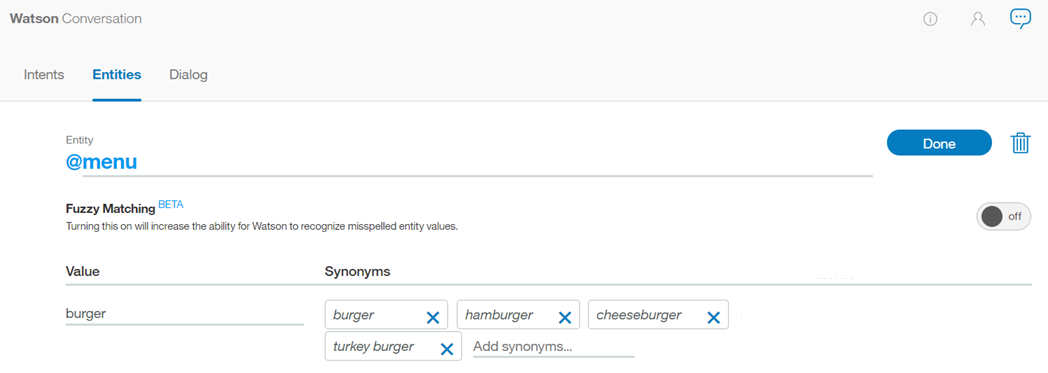
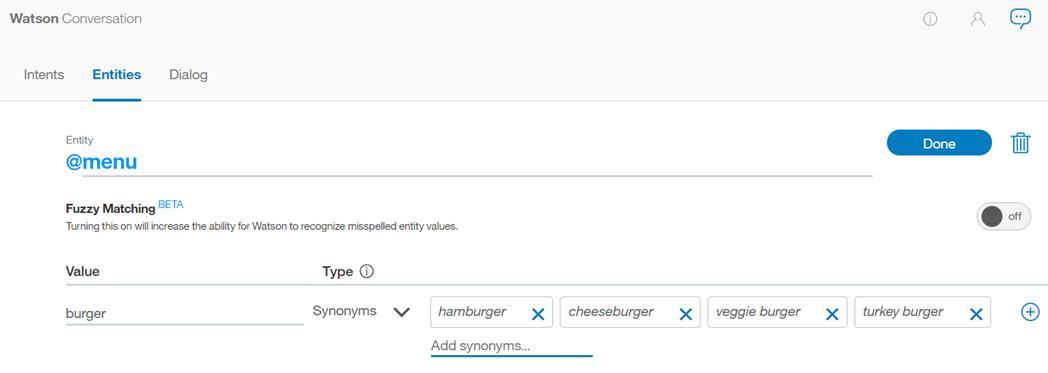
Pattern entities
Pattern entities content, includes condition builder in release notes

diff --git a/entities.md b/entities.md
@@ -2,7 +2,7 @@
 
 copyright:
   years: 2015, 2017
-lastupdated: "2017-07-27"
+lastupdated: "2017-09-22"
 
 ---
 
@@ -64,11 +64,51 @@ Use the {{site.data.keyword.conversationshort}} tool to create entities.
 1.  In the **Value** field, type the text of a possible value for the entity. An entity value can be any string up to 64 characters in length.
 
     > **Important:** Don't include sensitive or personal information in entity names or values. The names and values can be exposed in URLs in an app.
+
+    Once you have entered an entity value, you can then add any synonyms, or define specific patterns, for that entity value by selecting either `Synonyms` or `Patterns` from the *Type* drop-down menu.
+
+    ![Type selector for Value](images/value_type.png)
+
+    > **Note:** You can add *either* synonyms or patterns for a single entity value, you cannot add both.
+
 1.  In the **Synonyms** field, type any synonyms for the entity value. A synonym can be any string up to 64 characters in length.
 
     ![Screen capture of defining an entity](images/define_entity.png)
+1.  The **Patterns** field lets you define specific patterns for an entity value. A pattern **must** be entered as a regular expression in the field.
+  {: #pattern-entities}
+
+    ![Screen capture of defining a pattern entity](images/patternents1.png)
+
+    As in this example, for entity "ContactInfo", the patterns for phone, email, and website values can be defined as follows:
+    - Phone
+      - `localPhone`: `(\d{3})-(\d{4})`, e.g. 426-4968
+      - `fullUSphone`: `(\d{3})-(\d{3})-(\d{4})`, e.g. 800-426-4968
+      - `internationalPhone`: `^(\(?\+?[0-9]*\)?)?[0-9_\- \(\)]*$`, e.g., +44 1962 815000
+    - `email`: `\b[A-Za-z0-9._%+-]+@[A-Za-z0-9.-]+\.[A-Za-z]{2,}\b`, e.g. name@ibm.com
+    - `website`: `(https?:\/\/)?([\da-z\.-]+)\.([a-z\.]{2,6})([\/\w \.-]*)*\/?$`, e.g. https://www.ibm.com
+
+    Often when using pattern entities, it will be necessary to store the text that matches the pattern in a context variable (or action variable), from within your dialog tree.
+
+    Imagine a case where you are asking a user for their email address. The dialog node condition will contain a condition similar to `@contactInfo.email`. In order to assign the user-entered email as a context variable, the following syntax can be used to capture the pattern match within the dialog node's response section:
+
+    ```
+    {
+        "context" : {
+            "email": "@contactInfo.literal"
+        }
+    }
+    ```
+    {: screen}
+
+    The pattern matching engine employed by the {{site.data.keyword.conversationshort}} service has some syntax limitations, which are necessary in order to avoid performance concerns which can occur when using other regular expression engines. Notably, entity patterns may not contain:
+      - Positive repetitions (e.g., `x*+`)
+      - Backreferences (e.g., `\g1`)
+      - Conditional branches (e.g., `(?(cond)true))`
+
+    The regular expression engine is loosely based on the Java regular expression engine. The {{site.data.keyword.conversationshort}} service will produce an error if you try to upload an unsupported pattern, either via the API or from within the {{site.data.keyword.conversationshort}} service Tooling UI.
+
 1.  Click **+** and repeat the process to add more entity values.
-1.  When you are finished adding values and synonyms, click **Done**.
+1.  When you are finished adding entity values, click **Done**.
 
 ### Results
 
@@ -76,11 +116,13 @@ The entity you created is added to the **Entities** tab, and the system begins t
 
 ## Editing entities
 
-You can click any entity in the list to open it for editing. You can rename or delete entities, and you can add, edit, or delete values and synonyms.
+You can click any entity in the list to open it for editing. You can rename or delete entities, and you can add, edit, or delete values, synonyms, or patterns.
 
 ## Importing entities
 
 If you have a large number of entities, you might find it easier to import them from a comma-separated value (CSV) file than to define them one by one in the {{site.data.keyword.conversationshort}} tool.
+
+**Note:** Importing a CSV file does not currently support patterns.
 
 1.  Collect the entities into a CSV file, or export them from a spreadsheet to a CSV file. The required format for each line in the file is as follows:
 
@@ -120,6 +162,8 @@ You can view the imported entities on the Entities tab. You might need to refres
 
 You can export a number of entities to a CSV file, so you can then import and reuse them for another Conversation application.
 
+**Note:** Exporting a CSV file does not currently support patterns.
+
 1.  On the Entities tab, select ![Export icon](images/ExportIcon.png)
 
     ![Export and Delete options](images/ExportEntity1.png)
@@ -133,7 +177,7 @@ You can export a number of entities to a CSV file, so you can then import and re
 
 You can select a number of entities for deletion.
 
-**IMPORTANT**: By deleting entities you are also deleting all associated values, and synonyms, and these items cannot be retrieved later. All dialog nodes that reference these entities or values must be updated manually to no longer reference the deleted content.
+**IMPORTANT**: By deleting entities you are also deleting all associated values, synonyms, or patterns, and these items cannot be retrieved later. All dialog nodes that reference these entities or values must be updated manually to no longer reference the deleted content.
 
 1.  On the Entities tab, select ![Delete icon](images/DeleteIcon.png)
 

diff --git a/lang-support.md b/lang-support.md
@@ -2,7 +2,7 @@
 
 copyright:
   years: 2015, 2017
-lastupdated: "2017-08-23"
+lastupdated: "2017-09-22"
 
 ---
 
@@ -27,21 +27,21 @@ In the following table, the level of language and feature support is indicated b
 - **Beta** - The feature is supported only as a Beta release, and is still undergoing testing before it is made generally available in this language.
 - **Blank** - Absence of any code indicates that a feature is not available in this language.
 
-|                  | **[Defining intents](intents.html)**, **[entities](entities.html)**, and **[dialog](dialog-build.html)** | **[Absolute scoring and 'Mark as irrelevant'](intents.html#mark-irrelevant)** | **System entities ([number](system-entities.html#sys-number), [currency](system-entities.html#sys-currency), [percentage](system-entities.html#sys-percentage), [date, time](system-entities.html#sys-datetime))** | **[Entity fuzzy matching](entities.html#fuzzy-matching)** |
-|:---|:---:|:---:|:---:|:---:|
-| **English (en)**                   | GA | GA | GA </br> Beta ([location](system-entities.html#sys-location), [person](system-entities.html#sys-person)) | Beta (Stemming, misspelling, and partial match) |
-| **Arabic (ar)**                    | GA | Beta | Beta | Beta (Misspelling only) |
-| **Chinese (Simplified) (zh-cn)**   | Beta | Beta |  |  |
-| **Chinese (Traditional) (zh-tw)**  | Beta | Beta |  |  |
-| **Czech (cs)**                     | Beta | Beta | Beta | Beta (Misspelling only) |
-| **Dutch (nl)**                     | Beta | Beta |  |  |
-| **French (fr)**                    | GA | GA | GA | Beta (Misspelling only) |
-| **German (de)**                    | GA | GA | GA | Beta (Misspelling only) |
-| **Italian (it)**                   | GA | GA | GA | Beta (Misspelling only) |
-| **Japanese (ja)**                  | GA | GA | GA | Beta (Misspelling only) |
-| **Korean (ko)**                    | GA | GA | Beta | Beta (Misspelling only) |
-| **Portuguese (Brazilian) (pt-br)** | GA | GA | GA | Beta (Misspelling only) |
-| **Spanish (es)**                   | GA | GA | GA | Beta (Misspelling only) ||
+|                  | **[Defining intents](intents.html)**, **[entities](entities.html)**, and **[dialog](dialog-build.html)** | **[Absolute scoring and 'Mark as irrelevant'](intents.html#mark-irrelevant)** | **System entities ([number](system-entities.html#sys-number), [currency](system-entities.html#sys-currency), [percentage](system-entities.html#sys-percentage), [date, time](system-entities.html#sys-datetime))** | **[Entity fuzzy matching](entities.html#fuzzy-matching)** | **[Pattern-based entities](entities.html#pattern-entities)** |
+|:---|:---:|:---:|:---:|:---:|:---:|
+| **English (en)**                   | GA | GA | GA </br> Beta ([location](system-entities.html#sys-location), [person](system-entities.html#sys-person)) | Beta (Stemming, misspelling, and partial match) | Beta |
+| **Arabic (ar)**                    | GA | Beta | Beta | Beta (Misspelling only) | Beta |
+| **Chinese (Simplified) (zh-cn)**   | Beta | Beta |  |  | Beta |
+| **Chinese (Traditional) (zh-tw)**  | Beta | Beta |  |  | Beta |
+| **Czech (cs)**                     | Beta | Beta | Beta | Beta (Misspelling only) | Beta
+| **Dutch (nl)**                     | Beta | Beta |  |  | Beta |
+| **French (fr)**                    | GA | GA | GA | Beta (Misspelling only) | Beta |
+| **German (de)**                    | GA | GA | GA | Beta (Misspelling only) | Beta |
+| **Italian (it)**                   | GA | GA | GA | Beta (Misspelling only) | Beta |
+| **Japanese (ja)**                  | GA | GA | GA | Beta (Misspelling only) | Beta |
+| **Korean (ko)**                    | GA | GA | Beta | Beta (Misspelling only) | Beta |
+| **Portuguese (Brazilian) (pt-br)** | GA | GA | GA | Beta (Misspelling only) | Beta |
+| **Spanish (es)**                   | GA | GA | GA | Beta (Misspelling only) | Beta ||
 
 **Note:** The {{site.data.keyword.conversationshort}} service supports multiple languages as noted, but the tooling interface itself (descriptions, labels, etc.) is in English. All supported languages can be input and trained through the English interface.
 

diff --git a/release-notes.md b/release-notes.md
@@ -2,7 +2,7 @@
 
 copyright:
   years: 2015, 2017
-lastupdated: "2017-08-31"
+lastupdated: "2017-09-22"
 
 ---
 
@@ -45,6 +45,19 @@ Existing models that you have trained will not be immediately impacted, but expi
 {: #change-log}
 
 The following new features and changes to the service are available.
+
+### 22 September 2017
+{: #22September2017}
+
+- **Pattern-defined entities (Beta)**: You can now define specific patterns for an entity, using regular expressions. This can help you identify entities that follow a defined pattern, for example SKU or part numbers, phone numbers, or email addresses. See [Pattern-defined entities](entities.html#pattern-entities) for additional details.
+    - You can add either synonyms or patterns for a single entity value; you cannot add both.
+    - For each entity value, there can be a maximum of up to 5 patterns.
+    - Each pattern (regular expression) is limited to 128 characters.
+    - Importing or exporting via a CSV file does not currently support patterns.
+    - The REST API does not support direct access to patterns, but you can retrieve or modify patterns using the `/values` endpoint.
+
+- **New `/logs` API**: The REST API now supports listing log events from all workspaces in a service instance. For more information, see the [API Reference ![External link icon](../../icons/launch-glyph.svg "External link icon")](https://www.ibm.com/watson/developercloud/conversation/api/v1/#get_all_logs){: new_window}
+- **Condition builder updates**: The control that is displayed to help you define a condition in a dialog node has been updated. Enhancements include support for listing available context variable names after you enter the $ to begin adding a context variable.
 
 ### 31 August 2017
 {: #31August2017}
